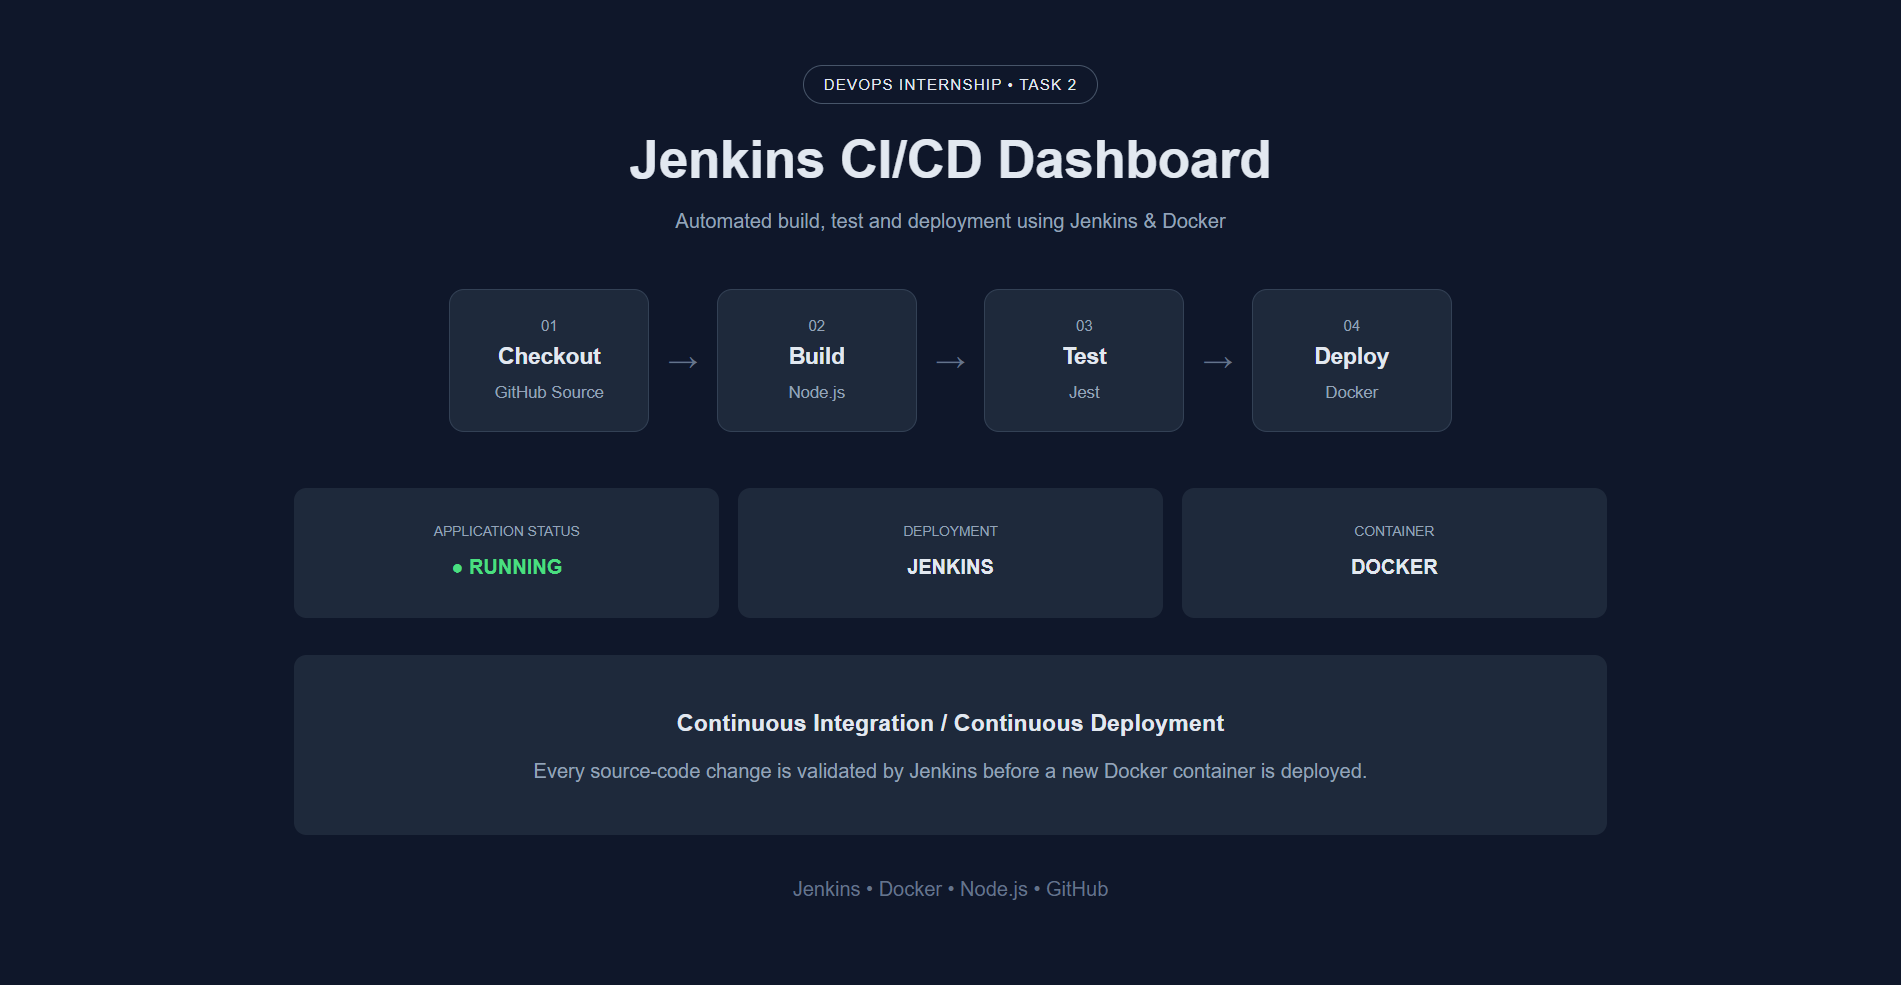
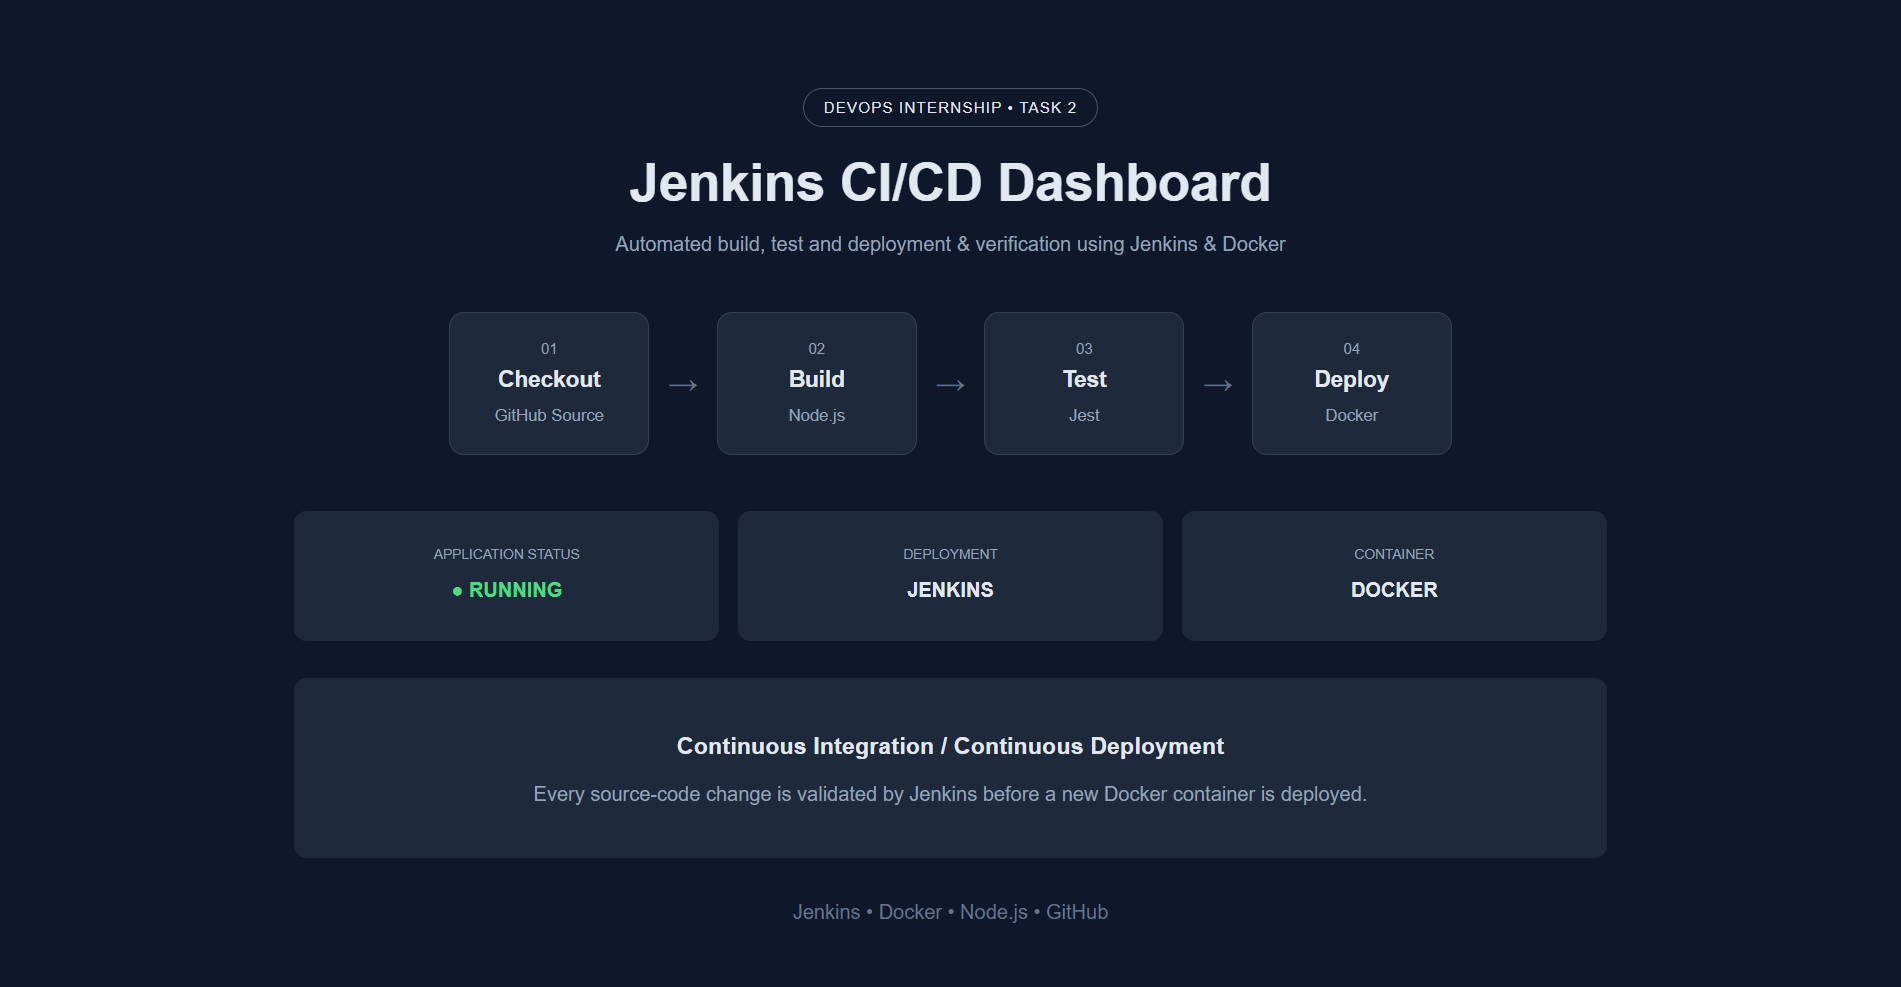
Add Docker Desktop deployment evidence

diff --git a/README.md b/README.md
@@ -53,9 +53,15 @@ Build #2 was automatically triggered when Jenkins detected a new source-code com
 
 ![Automatic SCM Trigger](screenshots/automatic-trigger-build.png)
 
-### Docker Deployment and Health Check
+### Docker Desktop Deployment
 
-The application is running as a Docker container deployed by Jenkins. The health endpoint reports an `UP` status.
+Docker Desktop confirms that both the Jenkins server and the application container are running successfully. The deployed `task2-jenkins-app` container exposes the application on port `3000`.
+
+![Docker Desktop Deployment](screenshots/docker-desktop-deployment.png)
+
+### Docker Deployment Verification
+
+The deployment was additionally verified from the command line using `docker ps` and the application's health-check endpoint. The API returned an `UP` status, confirming that the deployed service is operational.
 
 ![Docker Containers and Health Check](screenshots/docker-containers.png)
 
